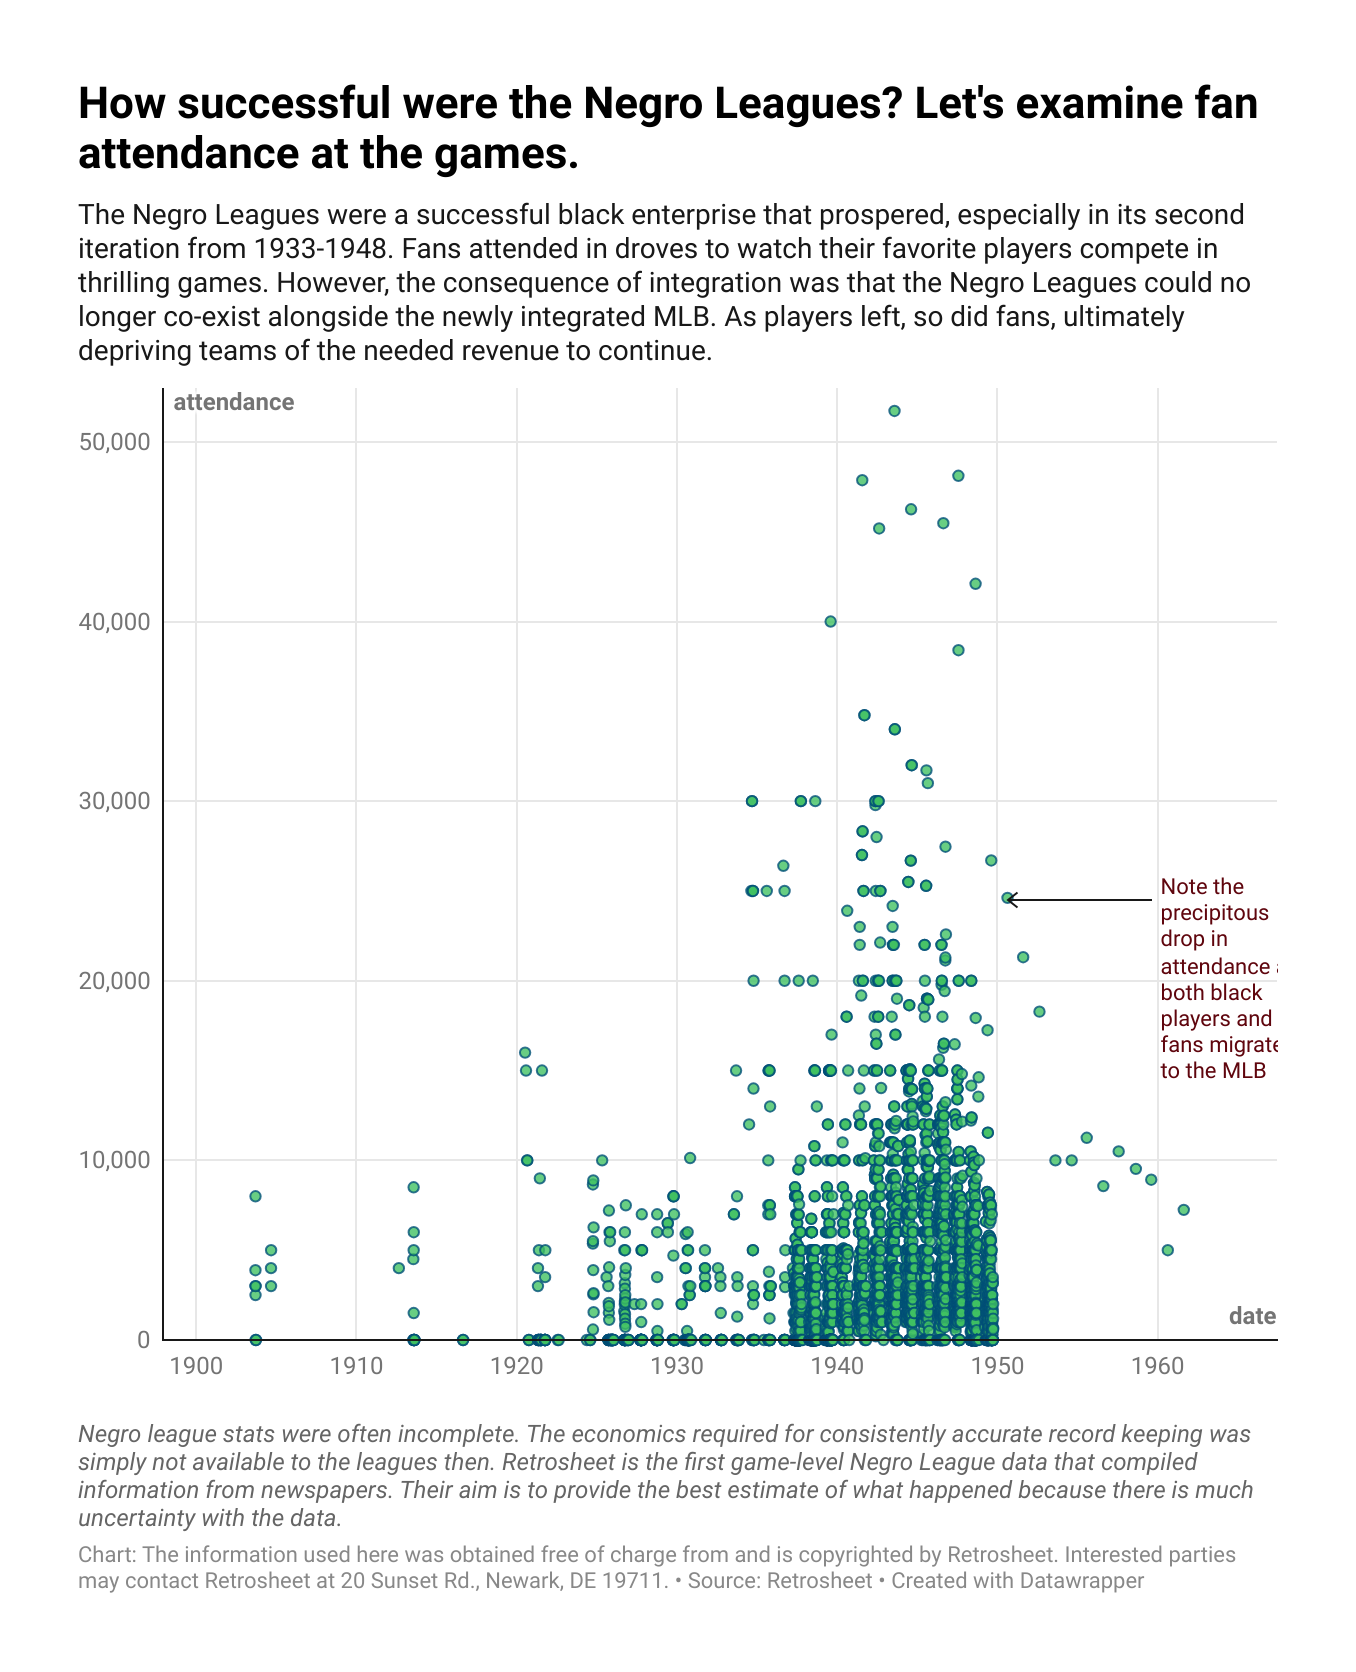
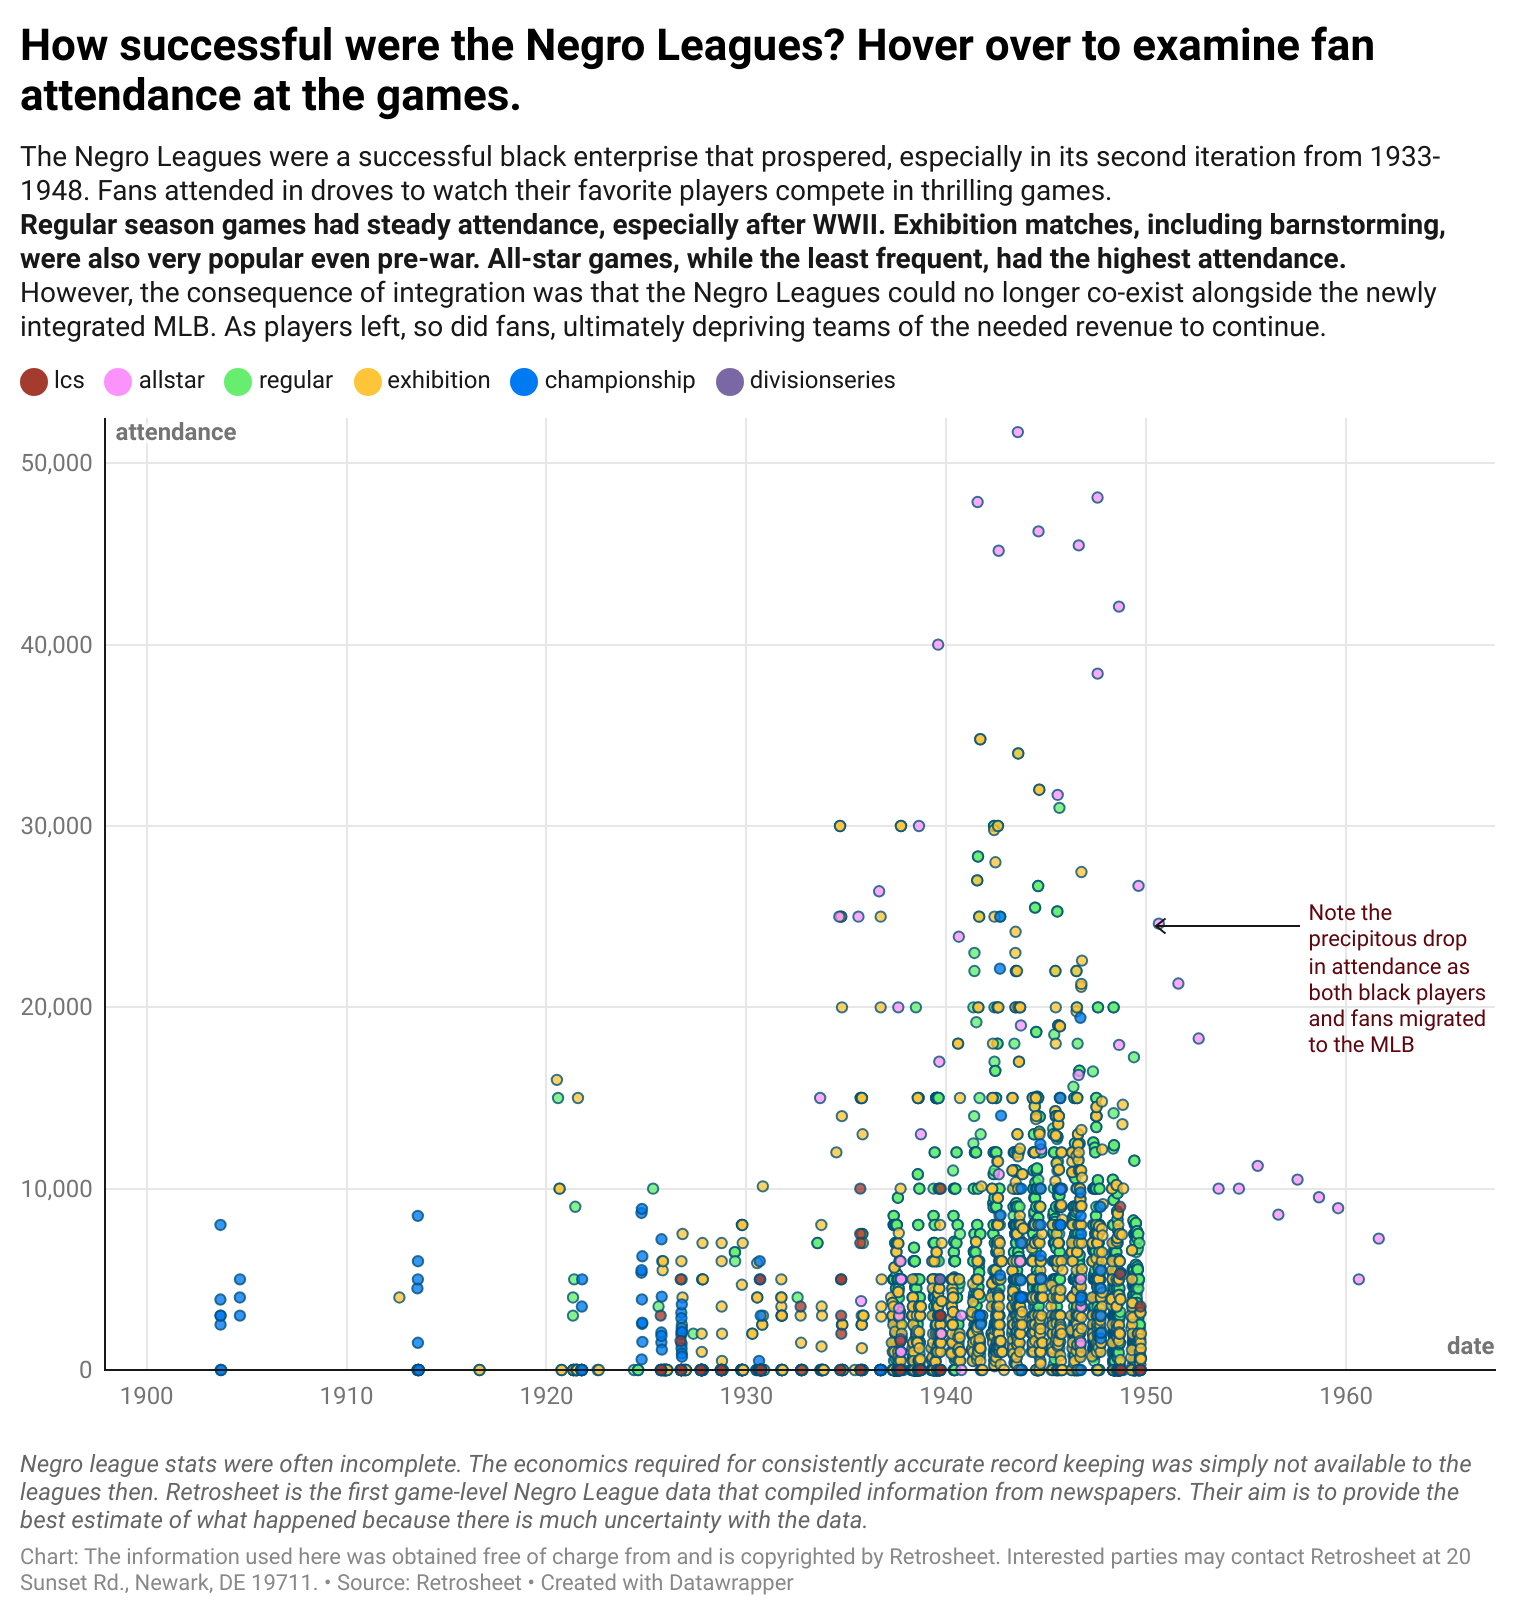
edited fan attedance scatterplot
added game type as a filter

diff --git a/viz/index-attendance.html b/viz/index-attendance.html
@@ -88,7 +88,7 @@
         </div>
       </nav>
   </div>
-  <iframe title="How successful were the Negro Leagues? Let's examine fan attendance at the games." aria-label="Scatter Plot" id="datawrapper-chart-oBQ4R" src="https://datawrapper.dwcdn.net/oBQ4R/11/" scrolling="no" frameborder="0" style="width: 0; min-width: 80% !important; border: none;" height="951" data-external="1"></iframe><script type="text/javascript">!function(){"use strict";window.addEventListener("message",(function(a){if(void 0!==a.data["datawrapper-height"]){var e=document.querySelectorAll("iframe");for(var t in a.data["datawrapper-height"])for(var r,i=0;r=e[i];i++)if(r.contentWindow===a.source){var d=a.data["datawrapper-height"][t]+"px";r.style.height=d}}}))}();
+  <iframe title="How successful were the Negro Leagues? Hover over to examine fan attendance at the games." aria-label="Scatter Plot" id="datawrapper-chart-oBQ4R" src="https://datawrapper.dwcdn.net/oBQ4R/15/" scrolling="no" frameborder="0" style="width: 0; min-width: 80% !important; border: none;" height="794" data-external="1"></iframe><script type="text/javascript">!function(){"use strict";window.addEventListener("message",(function(a){if(void 0!==a.data["datawrapper-height"]){var e=document.querySelectorAll("iframe");for(var t in a.data["datawrapper-height"])for(var r,i=0;r=e[i];i++)if(r.contentWindow===a.source){var d=a.data["datawrapper-height"][t]+"px";r.style.height=d}}}))}();
   </script>
 </body>
 </html>

diff --git a/viz-tests/player-data-all.html b/viz-tests/player-data-all.html
@@ -106,8 +106,8 @@
       </script>
     </div>
 
-    <br/>
-    <br/>
+    <br />
+    <br />
 
     <div class="mlb-fans">
       <iframe title="MLB attendance 1903-1961" aria-label="Multiple Lines" id="datawrapper-chart-OsT4j" src="https://datawrapper.dwcdn.net/OsT4j/3/" scrolling="no" frameborder="0" style="width: 0; min-width: 75% !important; border: none;" height="785" data-external="1"></iframe><script type="text/javascript">!function(){"use strict";window.addEventListener("message",(function(a){if(void 0!==a.data["datawrapper-height"]){var e=document.querySelectorAll("iframe");for(var t in a.data["datawrapper-height"])for(var r,i=0;r=e[i];i++)if(r.contentWindow===a.source){var d=a.data["datawrapper-height"][t]+"px";r.style.height=d}}}))}();
